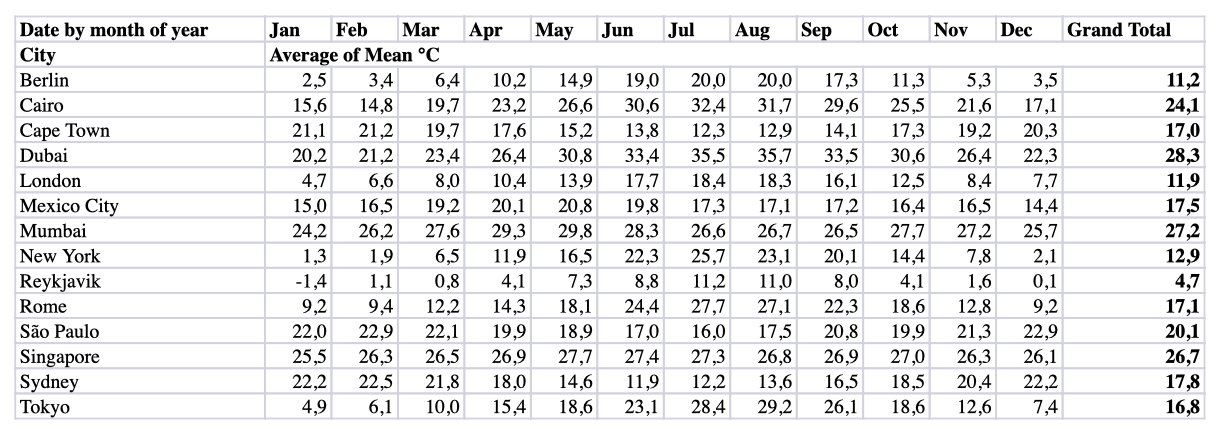
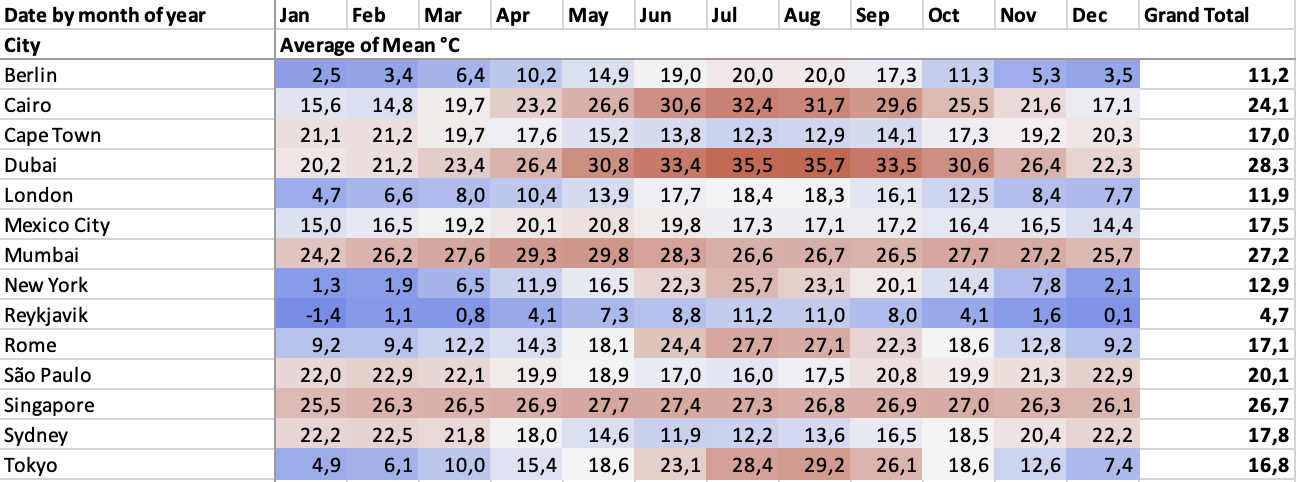
docs: show the weather workbook in Excel on the start page (#378)
* docs: show the weather workbook in Excel on the start page

The start page pictured the exported workbook in macOS Quick Look, which
shows no colour scale. The screenshot is now Excel's own view of the same
workbook, cropped to the table. Excel draws the sheet white in its dark
mode too, so light and dark stay one image.

Refs #258

* docs: note that the Excel screenshot follows the Mac's region

Refs #258

* docs: Excel screenshot keeps row 16's gridline, text without the machine's region

Refs #258

---------

diff --git a/AGENTS.md b/AGENTS.md
@@ -252,8 +252,11 @@ root `package.json`: `npm run types` and the builds depend on it.
   Markdown, `docs/assets/icon.svg` from eizedev/brand, `docs/assets/screenshots/` taken by
   `scripts/docs-screenshots.js` from the playground, except `xlsx-result-light.png` and
   `xlsx-result-dark.png` (one image twice: a workbook has no dark theme), the weather example's view
-  rendered to XLSX by the CLI and pictured by macOS Quick Look (`qlmanage -t -s 1600`, cropped to the
-  table), taken again by hand when the export's look changes. `docs/playground/` (the live demo),
+  rendered to XLSX by the CLI (`pivotkit render weather.pivotkit.json --data weather.csv -o
+  weather.xlsx`), opened in Microsoft Excel for Mac at 100 % on a Retina screen and captured as
+  Excel's window only (`screencapture -o -l <window id>`), cropped to cells A1:N16; the sheet stays
+  white in Excel's dark mode; Excel formats the numbers by the system's region, so the picture
+  is taken with a region that writes a decimal point. Taken again by hand when the export's look changes. `docs/playground/` (the live demo),
   `docs/schema/`, `docs/assets/social-preview.png` and `docs/robots.txt` (all written by
   `scripts/docs-demo.js`) and `docs/assets/site.css` (the design) are build output, not committed. The theme's
   repository link in the header asks api.github.com for the repository's stars, forks and latest

diff --git a/docs/index.md b/docs/index.md
@@ -37,9 +37,9 @@ MIT · the report runs in the browser, nothing uploaded · React, web component,
 </figure>
 
 <figure markdown>
-![The same report as an Excel workbook: cities down, months across, Grand Total in bold, numbers as numbers](assets/screenshots/xlsx-result-light.png#only-light)
-![The same report as an Excel workbook: cities down, months across, Grand Total in bold, numbers as numbers](assets/screenshots/xlsx-result-dark.png#only-dark)
-<figcaption>The same report as a workbook (here in the macOS preview; Excel also shows its colour scale).</figcaption>
+![The same report as a workbook in Microsoft Excel: cities down, months across, a blue to red colour scale, Grand Total in bold, numbers as numbers](assets/screenshots/xlsx-result-light.png#only-light)
+![The same report as a workbook in Microsoft Excel: cities down, months across, a blue to red colour scale, Grand Total in bold, numbers as numbers](assets/screenshots/xlsx-result-dark.png#only-dark)
+<figcaption>The same report as a workbook in Excel, colour scale included.</figcaption>
 </figure>
 
 </div>
